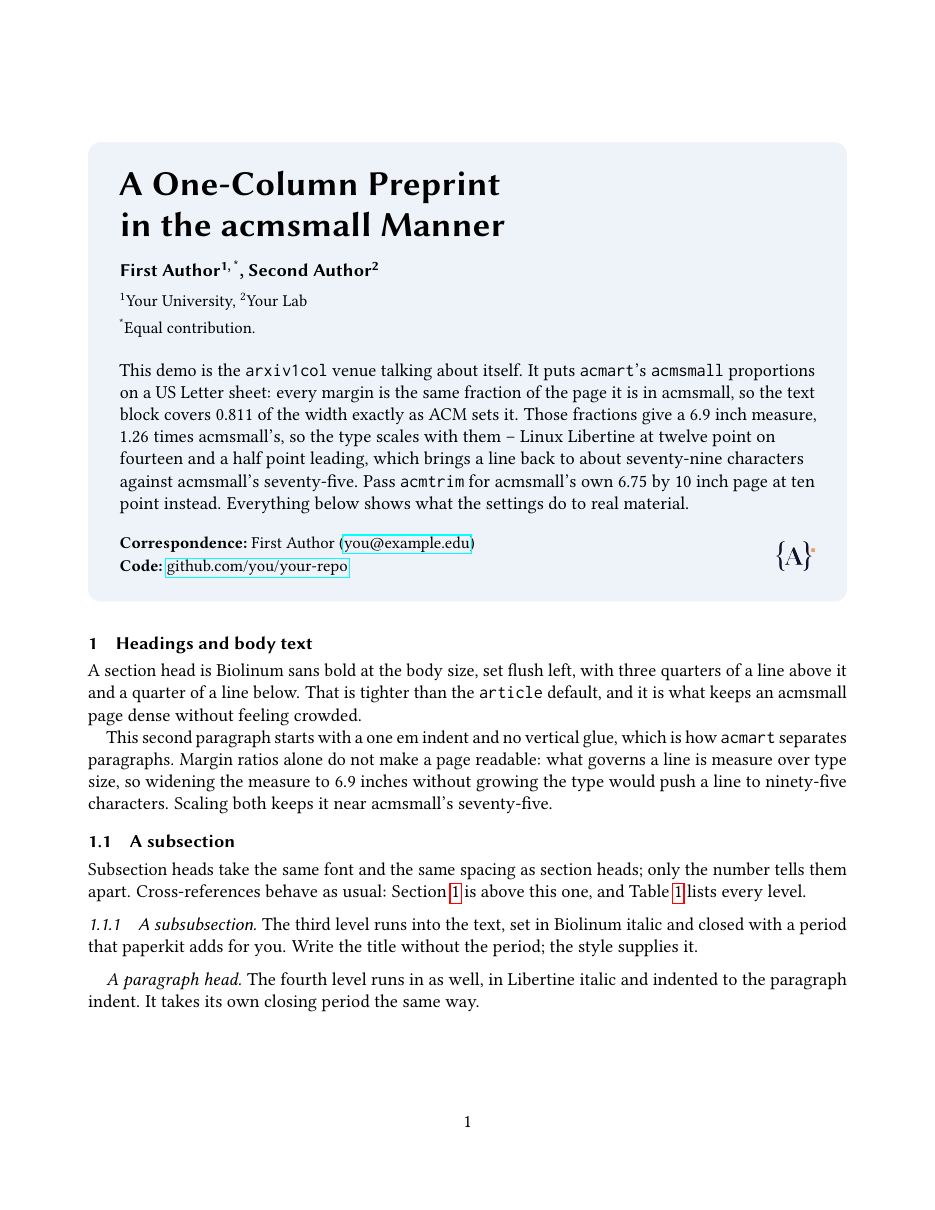
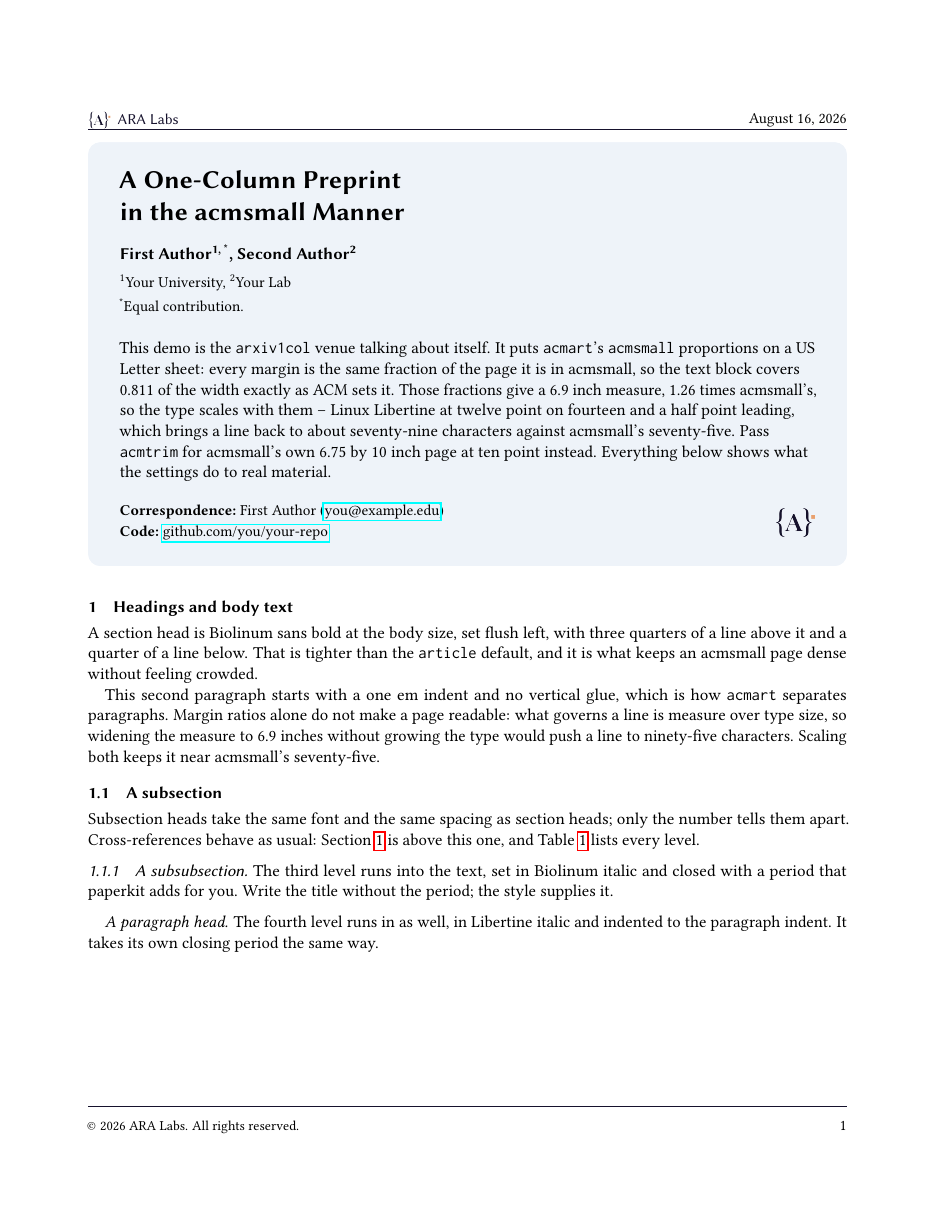
feat(arxiv1col): branded running head and foot in acmsmall's manner
Give the one-column preprint the page furniture a preprint from a lab
usually carries: the horizontal ARA lockup at the left of the head on
every page, and opposite it the date on page 1, then acmsmall's own
alternation -- short title on the recto, short author list on the verso.
A rule in the brand ink closes the head and opens the foot, which takes
the rights line at the left and the page number at the right.

New front matter, all ignored outside arxiv1col:

  \paperbrand[<height>]{<mark>}{<wordmark>}   the lockup, unset it
                                             borrows \paperlogo
  \papershortauthors{...}                     verso side of the head
  \papercopyright{...}                        left of the foot
  \paperdate{...}                             first-page head, \today

\paperrunningtitle now feeds the recto side as well as \icmltitlerunning.
Each side of the head falls back to the other, and the short title falls
back to \papertitle's plain-text form, so the head is never blank.

Colours are sampled from the mark -- ink #16122D, accent #E9A16F --
and \paperbrandcolor / \paperrulecolor override them. fancyhdr draws
both rules in vertical mode, so \headrule and \footrule are replaced
with colour-setting versions that keep the package's own \vskip
corrections.

Type and margins are untouched. The head needed vertical room, so head
and headsep trade against each other -- 14.3+15.4 -> 21+8.7 on Letter,
[…]

diff --git a/main.tex b/main.tex
@@ -41,6 +41,15 @@
 \paperlogoheight{20pt}
 % \addpaperlogo[26pt]{figures/logo-placeholder.pdf}
 
+% arxiv1col only: the horizontal lockup at the left of every running head, and
+% the short forms that alternate against it on the right -- short title on odd
+% pages, short authors on even ones, the way acmsmall does it.
+\paperbrand[11pt]{figures/ara-logo.png}{ARA Labs}
+\papershortauthors{First Author et al.}
+\papercopyright{\textcopyright\ 2026 ARA Labs. All rights reserved.}
+% \paperdate{}                 % blanks the date in the first-page head
+% \paperbrandcolor{16122D}{E9A16F}
+
 % Panel look (optional):
 % \paperpanelcolor{EEF3F9}
 % \papertitlesize{19}{23}

diff --git a/examples/arxiv1col-demo.tex b/examples/arxiv1col-demo.tex
@@ -21,6 +21,7 @@
   A One-Column Preprint\\
   in the acmsmall Manner%
 }
+\paperrunningtitle{A One-Column Preprint in the acmsmall Manner}
 
 \paperauthors{%
   First Author\textsuperscript{1,\,*},\ %
@@ -49,6 +50,10 @@
 \papercode{\href{https://github.com/you/your-repo}{github.com/you/your-repo}}
 \paperlogo{}{../figures/ara-logo.png}
 \paperlogoheight{20pt}
+
+\paperbrand[11pt]{../figures/ara-logo.png}{ARA Labs}
+\papershortauthors{First Author and Second Author}
+\papercopyright{\textcopyright\ 2026 ARA Labs. All rights reserved.}
 
 \begin{document}
 

diff --git a/README.md b/README.md
@@ -58,6 +58,16 @@ renders whichever first page the venue calls for.
 \makepaperheader
 ```
 
+Four more fields feed the `arxiv1col` running head and foot, and are ignored by
+every other venue:
+
+```latex
+\paperbrand[11pt]{figures/ara-logo.png}{ARA Labs}  % lockup at the left of the head
+\papershortauthors{Falck et al.}                   % verso side of the head
+\papercopyright{\textcopyright\ 2026 ARA Labs. All rights reserved.}
+\paperdate{14 August 2026}      % first-page head; defaults to \today, {} blanks it
+```
+
 Keep `sections/abstract.tex` as raw body text with no `\begin{abstract}` wrapper.
 That is what lets the same file go into the panel for the preprint and into the
 venue's abstract environment for the submission.
@@ -86,6 +96,7 @@ venue's abstract environment for the submission.
 | `minimal` | Skip tikz, listings, and pifont for faster compiles |
 | `nolibertine` | `arxiv1col` only: keep the default fonts instead of Libertine |
 | `acmtrim` | `arxiv1col` only: acmsmall's 6.75 x 10 in page at 10 pt |
+| `noheader` | `arxiv1col` only: drop the branded head and foot for a plain page number |
 
 Two knobs live outside the option list, because they have to be set before the
 package loads:
@@ -138,6 +149,40 @@ Everything else -- Biolinum sans headings flush left, run-in italic
 subsubsection and paragraph heads with a closing period, `newtxmath` on
 Libertine letters, Inconsolata mono, a one em indent with no `parskip` -- is
 `acmart`'s, unchanged.
+
+### The running head and foot
+
+`arxiv1col` carries branded page furniture. The horizontal lockup -- the mark
+and the wordmark from `\paperbrand` -- sits at the left of the head on every
+page. Opposite it:
+
+| Page | Right of the head |
+| --- | --- |
+| 1 | `\paperdate`, defaulting to `\today` |
+| odd | `\paperrunningtitle` |
+| even | `\papershortauthors` |
+
+That alternation is acmsmall's: the short title on the recto, the short author
+list on the verso. Either side falls back to the other when only one is set, and
+the short title falls back to the plain-text title from `\papertitle`, so the
+head is never blank. A rule in the brand ink closes the head and opens the foot,
+which carries `\papercopyright` at the left and the page number at the right.
+
+Left unset, `\paperbrand` borrows whatever `\paperlogo` already holds. The
+colours come from the ARA mark -- ink `#16122D`, accent `#E9A16F` -- and both
+the palette and the rule are overridable:
+
+```latex
+\paperbrandcolor{16122D}{E9A16F}   % ink, accent
+\paperrulecolor{pkbrandaccent}     % any xcolor name; default is pkbrandink
+```
+
+Head and foot are the only departure from acmsmall's page, and they cost the
+text block nothing: `head` and `headsep` trade against each other (14.3 pt +
+15.4 pt becomes 21 pt + 8.7 pt on Letter, 13 pt + 14 pt becomes 19 pt + 8 pt
+under `acmtrim`), so `\textwidth`, `\textheight`, and `\topmargin` come out at
+the same values acmart computes. Pass `noheader` to drop the furniture entirely
+and fall back to a centered page number.
 
 Pass `acmtrim` for acmsmall's own 6.75 x 10 in page at 10 pt, reproducing
 acmart's `\textwidth` of 395.82 pt and `\textheight` of 574 pt to the point:
